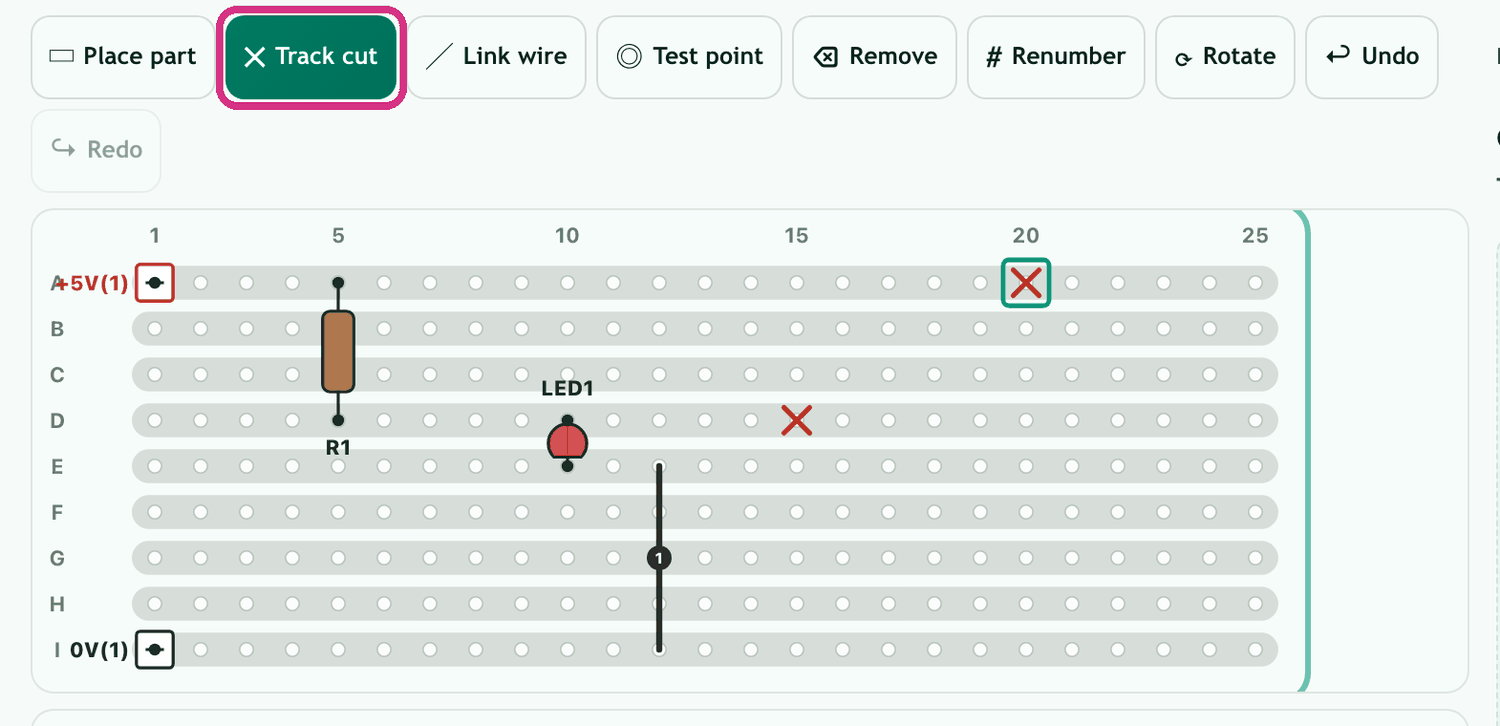
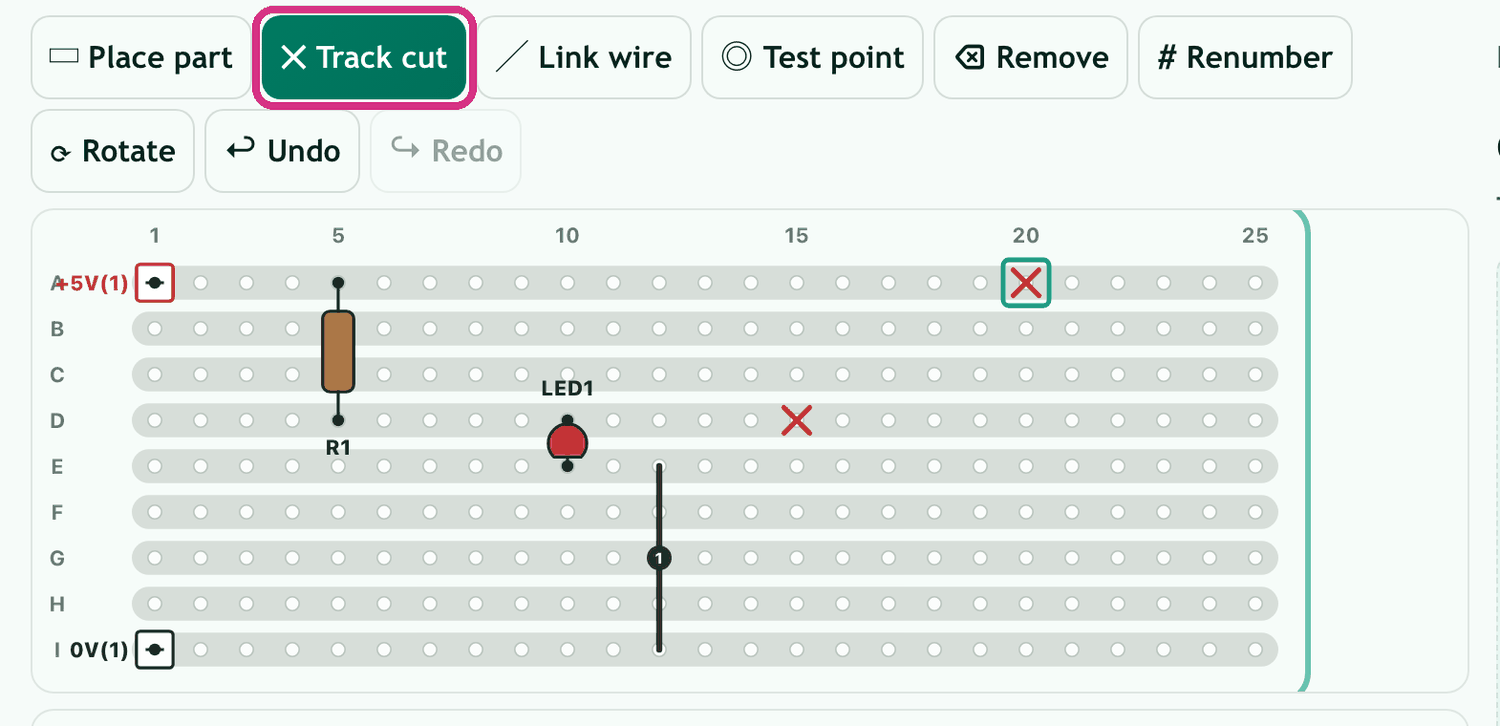
Planner guide: re-shoot screenshots at the new type scale
The guide pictures were taken before the 26 Sep type-scale change and the
29 Sep reading pass, so they showed the old text sizes. All nine scenes
re-shot in light and dark from the scripted scenes; the dark shots now show
the black-link outline too. Four pictures changed height, so their img
height attributes are updated to stop layout shift.

Verified: every new shot looked at on a contact sheet (RS approved); no
clipped labels or overlaps; guide page diff is the four heights only.

diff --git a/classes/electronics/stripboard-planner-guide.html b/classes/electronics/stripboard-planner-guide.html
@@ -134,7 +134,7 @@ title: How to use the Stripboard Planner · National 5 Electronics
           <a class="figlink" href="/assets/electronics/planner-guide/screen-light.png" data-dark="/assets/electronics/planner-guide/screen-dark.png">
             <picture>
               <source srcset="/assets/electronics/planner-guide/screen-dark.png" media="(prefers-color-scheme: dark)">
-              <img src="/assets/electronics/planner-guide/screen-light.png" width="1500" height="1160" loading="lazy"
+              <img src="/assets/electronics/planner-guide/screen-light.png" width="1500" height="1139" loading="lazy"
                    alt="The whole Stripboard Planner with numbered labels: 1 the tool buttons, 2 the board, 3 the parts list, 4 the Board size buttons, 5 the What is joined to what panel, 6 the Check my layout button, 7 the message box.">
             </picture>
           </a>
@@ -160,7 +160,7 @@ title: How to use the Stripboard Planner · National 5 Electronics
           <a class="figlink" href="/assets/electronics/planner-guide/place-light.png" data-dark="/assets/electronics/planner-guide/place-dark.png">
             <picture>
               <source srcset="/assets/electronics/planner-guide/place-dark.png" media="(prefers-color-scheme: dark)">
-              <img src="/assets/electronics/planner-guide/place-light.png" width="1500" height="523" loading="lazy"
+              <img src="/assets/electronics/planner-guide/place-light.png" width="1500" height="582" loading="lazy"
                    alt="The Place part tool is ringed. In the parts list, which is also ringed, the LED is picked. Its card shows its own Rotate and Renumber buttons and a choice of colours. Resistor R1 is already on the board.">
             </picture>
           </a>
@@ -236,7 +236,7 @@ title: How to use the Stripboard Planner · National 5 Electronics
           <a class="figlink" href="/assets/electronics/planner-guide/tp-light.png" data-dark="/assets/electronics/planner-guide/tp-dark.png">
             <picture>
               <source srcset="/assets/electronics/planner-guide/tp-dark.png" media="(prefers-color-scheme: dark)">
-              <img src="/assets/electronics/planner-guide/tp-light.png" width="1500" height="1240" loading="lazy"
+              <img src="/assets/electronics/planner-guide/tp-light.png" width="1500" height="1256" loading="lazy"
                    alt="The Test point tool and the Testing table button are ringed. The board has test points TP1 and TP2. The testing table below it reads: TP1, output from R1, digital high when LED1 is on. TP2, +5 V supply rail.">
             </picture>
           </a>
@@ -263,7 +263,7 @@ title: How to use the Stripboard Planner · National 5 Electronics
           <a class="figlink" href="/assets/electronics/planner-guide/check-light.png" data-dark="/assets/electronics/planner-guide/check-dark.png">
             <picture>
               <source srcset="/assets/electronics/planner-guide/check-dark.png" media="(prefers-color-scheme: dark)">
-              <img src="/assets/electronics/planner-guide/check-light.png" width="1500" height="534" loading="lazy"
+              <img src="/assets/electronics/planner-guide/check-light.png" width="1500" height="497" loading="lazy"
                    alt="The Check my layout button is ringed. The message box says: That board could be built. Under Worth looking at before you build it, it warns that the link G3 to G8 has both ends on the same track and does nothing.">
             </picture>
           </a>
